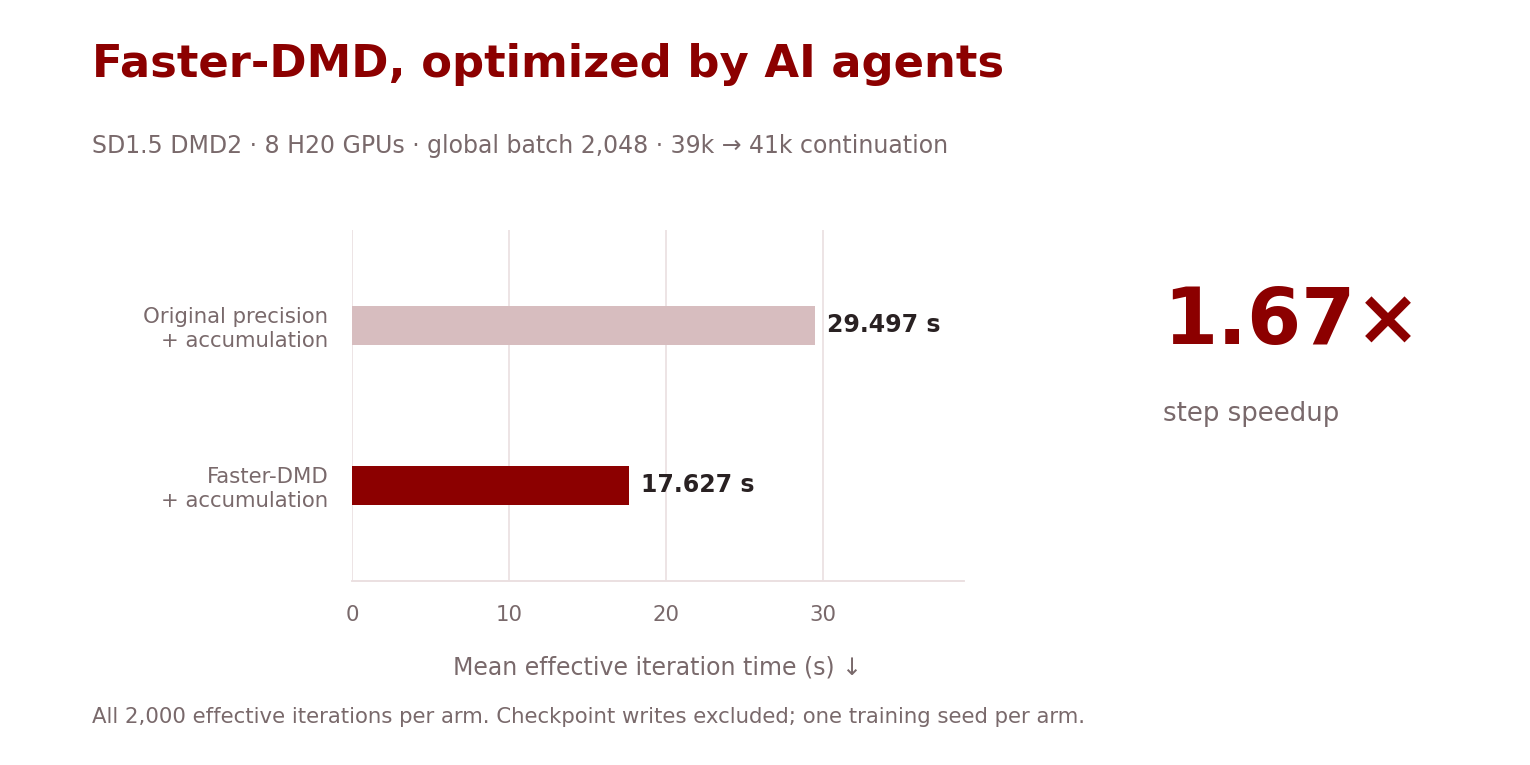
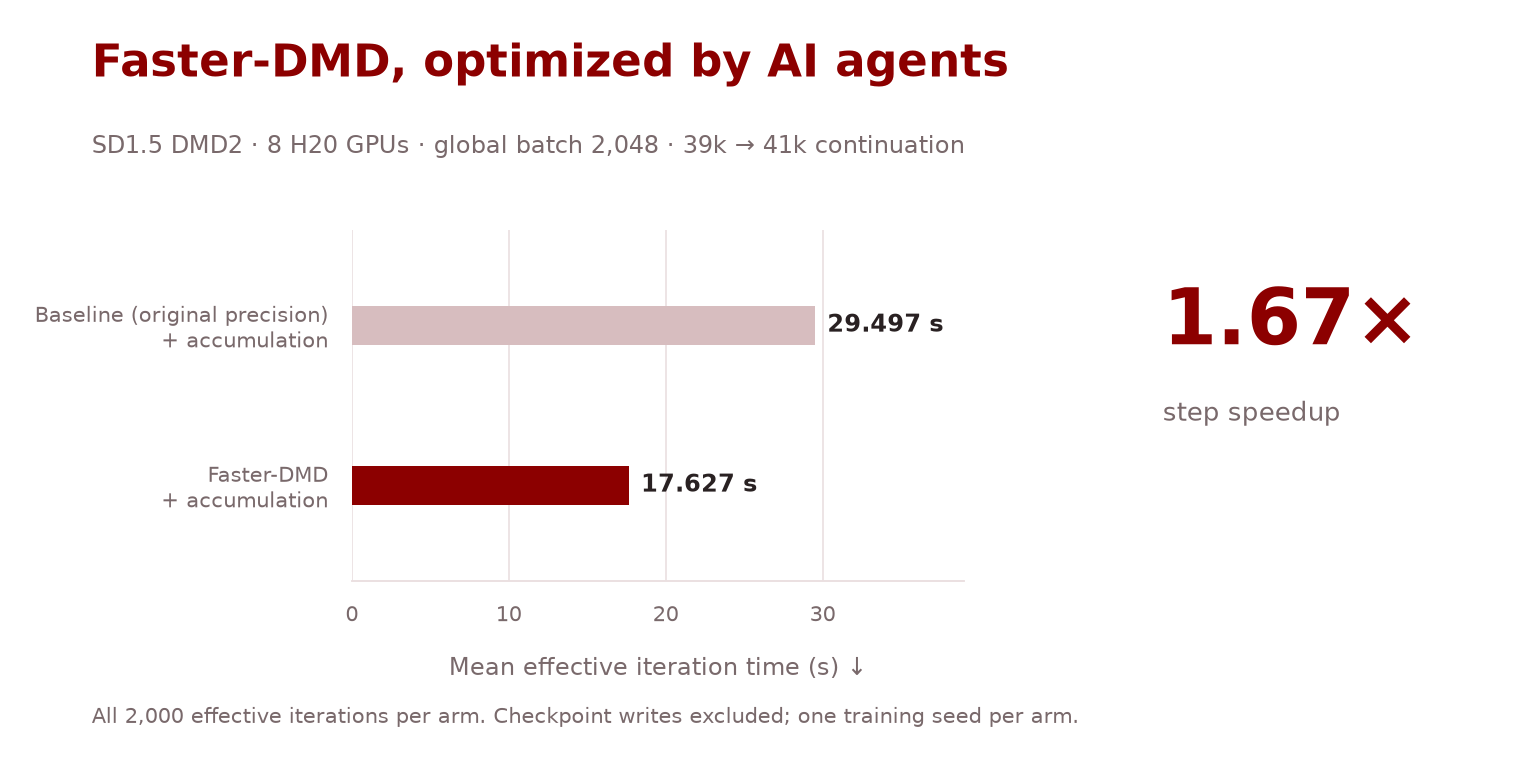
docs: standardize baseline terminology
Use Baseline / 基线 for comparison implementations in the bilingual READMEs and figures. Synchronize figure sources and existing exports while preserving upstream attribution, reference data terminology and measured results.

diff --git a/docs/performance-views/render.py b/docs/performance-views/render.py
@@ -20,7 +20,7 @@ def hero():
  fig=plt.figure(figsize=(9,4.5));fig.text(.06,.90,'Faster-DMD, optimized by AI agents',color=RED,weight='bold',size=19)
  fig.text(.06,.80,'SD1.5 DMD2 · 8 H20 GPUs · global batch 2,048 · 39k → 41k continuation',color=MUTED,size=10)
  ax=fig.add_axes([.23,.24,.40,.46]);vals=[d['timing'][x]['mean_step_seconds'] for x in ['original','optimized']]
- ax.barh([1,0],vals,color=['#D7BDBF',RED],height=.24,zorder=3);ax.set_yticks([1,0],['Original precision\n+ accumulation','Faster-DMD\n+ accumulation'],color=MUTED)
+ ax.barh([1,0],vals,color=['#D7BDBF',RED],height=.24,zorder=3);ax.set_yticks([1,0],['Baseline (original precision)\n+ accumulation','Faster-DMD\n+ accumulation'],color=MUTED)
  for y,v in zip([1,0],vals):ax.text(v+.8,y,f'{v:.3f} s',va='center',color=INK,size=10,weight='bold')
  ax.set_xlim(0,39);ax.set_ylim(-.6,1.6);ax.set_xticks([0,10,20,30]);ax.tick_params(length=0,labelsize=9,colors=MUTED,pad=10)
  for k in ['top','right','left']:ax.spines[k].set_visible(False)
@@ -51,7 +51,7 @@ def history():
   fig.add_artist(FancyBboxPatch((bx,by-.378/height),.41,.585/height,boxstyle='round,pad=0.004,rounding_size=0.007',transform=fig.transFigure,facecolor=CARD,edgecolor='none'))
   fig.text(bx+.014,by-.08/height,tag,size=12,weight='bold',color=RED)
   fig.text(bx+.079,by-.08/height,textwrap.fill(row['label'],width=24,break_long_words=False,break_on_hyphens=False),size=11.5,color=INK,weight='bold',va='center',linespacing=1.35)
- fig.text(.09,top(8.15),'Open marker: timing screen against a frozen reference. Filled: final full check, reference remeasured.\nCumulative configurations, not isolated ablations. Separate workload from the 8-GPU continuation headline.',size=9.5,color=MUTED,linespacing=1.4)
+ fig.text(.09,top(8.15),'Open marker: timing screen against a frozen baseline. Filled: final full check, baseline remeasured.\nCumulative configurations, not isolated ablations. Separate workload from the 8-GPU continuation headline.',size=9.5,color=MUTED,linespacing=1.4)
  save(fig,ROOT/'02-history')
 def modulemap():
  fig=plt.figure(figsize=(9,6.6),facecolor='white');ax=fig.add_axes([0,0,1,1]);ax.set_xlim(0,1);ax.set_ylim(0,1);ax.axis('off')

diff --git a/docs/performance-views/README.md b/docs/performance-views/README.md
@@ -2,7 +2,7 @@
 
 `01-h20-benchmark.svg` uses all 2,000 effective-step entries per arm from the completed 39k→41k continuations: baseline 29.497 s, optimized 17.627 s, speedup 1.67×. Hardware: eight H20 GPUs; global batch 2,048 = 8 × 32 × 8. Checkpoint writes are outside these timings. [Raw step entries](../../evaluation/20261017/effective-step-timings.json) and [summary](../../evaluation/20261017/completed_comparison_summary.json) are retained.
 
-`02-history.svg` is a separate earlier four-H20 experiment at global batch 128 = 4 × 32 × 1. [history.json](history.json) retains the selected screening points and their original report paths. Screening speedups use a frozen 3.7348 s reference; the final full check remeasured reference/candidate at 3.7368 / 2.1704 s (1.7218×). The final point includes intervening changes and remeasurement; it is not one isolated optimization's contribution.
+`02-history.svg` is a separate earlier four-H20 experiment at global batch 128 = 4 × 32 × 1. [history.json](history.json) retains the selected screening points and their original report paths. Screening speedups use a frozen 3.7348 s baseline; the final full check remeasured baseline/candidate at 3.7368 / 2.1704 s (1.7218×). The final point includes intervening changes and remeasurement; it is not one isolated optimization's contribution.
 
 The [final historical check](historical-final-check.json) passed the short-trajectory statistical check across three seeds (10, 11 and 12) and seven endpoints. The strict numerical check did not pass: the report records 2,946 unresolved comparisons and eight dtype changes. These results support the reported short-trajectory statistical verdict, but do not establish bitwise equivalence or equivalent quality after full training.
 

diff --git a/README.md b/README.md
@@ -30,7 +30,7 @@ For another GPU count or memory budget, adjust `NPROC`, `MICROBATCH` and `GRAD_A
 
 ## Agent Optimization History
 
-The earlier optimization sequence used **4 H20 GPUs, microbatch 32, accumulation 1, global batch 128**. The final benchmark measured **3.7368 s/iteration for the reference and 2.1704 s/iteration for the optimized configuration**, a **1.72×** speedup. Its smaller global batch and short measurement window differ from the eight-GPU continuation above, so the iteration times are not directly comparable.
+The earlier optimization sequence used **4 H20 GPUs, microbatch 32, accumulation 1, global batch 128**. The final benchmark measured **3.7368 s/iteration for the baseline and 2.1704 s/iteration for the optimized configuration**, a **1.72×** speedup. Its smaller global batch and short measurement window differ from the eight-GPU continuation above, so the iteration times are not directly comparable.
 
 ![Historical four-H20 optimization sequence at global batch 128](docs/performance-views/02-history.svg)
 
